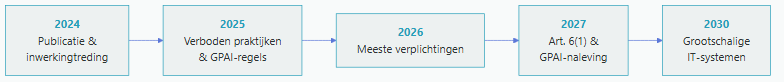
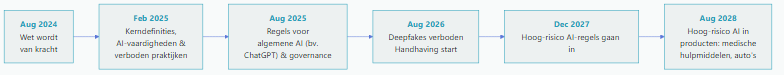
timeline fixes and minor styling improvements

diff --git a/README.md b/README.md
@@ -4,15 +4,21 @@ Teaching-focused plots and learning materials for AI and machine learning course
 
 ## About
 
-This repository generates plots, diagrams, and code snippets used in AI course
-materials. All visuals are generated programmatically and styled from the
-[Bitroot design system](CCPlots/config/bitroot.json).
+This repository generates plots, diagrams, and code snippets used in AI
+course materials.  All visuals are generated programmatically and styled
+from the [Bitroot design system](bitroot.json).
+
+> **AI agent instructions:** This repository contains `.agent-instructions/` —
+> guidance that lets AI tools (such as Kilo) generate new diagrams, plots,
+> and code snippets in the Bitroot style.  See the files in that directory
+> for the details per medium.
 
 ## Contents
 
 - [Python Plots](#python-plots) — matplotlib plots via CCPlots
 - [Mermaid Diagrams](#mermaid-diagrams) — flowcharts via mmdc (`mermaid/` → `mermaid-output/`)
 - [Code Snippets](#code-snippets) — syntax-highlighted code via carbon-now-cli (`code-snippets/` → `snippet-output/`)
+- [Agent Instructions](#agent-instructions) — AI guidance for generating new content
 - [Plot Showcase](#plot-showcase)
 
 ## Python Plots
@@ -89,6 +95,12 @@ derived from `bitroot.json` and rendered via the Mermaid CLI.
 |---|---|---|
 | `eu_ai_act_classification.md` | EN | `{stem}.svg`, `{stem}.png` |
 | `eu_ai_act_classification_NL.md` | NL | `{stem}.svg`, `{stem}.png` |
+| `eu_ai_act_timeline.md` | EN | `{stem}.svg`, `{stem}.png` |
+| `eu_ai_act_timeline_NL.md` | NL | `{stem}.svg`, `{stem}.png` |
+| `eu_ai_act_governance.md` | EN | `{stem}.svg`, `{stem}.png` |
+| `eu_ai_act_governance_NL.md` | NL | `{stem}.svg`, `{stem}.png` |
+| `eu_ai_act_nl_supervision.md` | EN | `{stem}.svg`, `{stem}.png` |
+| `eu_ai_act_nl_supervision_NL.md` | NL | `{stem}.svg`, `{stem}.png` |
 | `ml_algorithms_overview.md` | EN | `{stem}.svg`, `{stem}.png` |
 | `ml_algorithms.md` | EN | `{stem}.svg`, `{stem}.png` |
 | `scientific_method.md` | EN | `{stem}.svg`, `{stem}.png` |
@@ -111,11 +123,43 @@ Bitroot syntax-highlighting theme and rendered via carbon-now-cli.
 | `model_selection/` | LazyPredict comparison output | `model_selection/*.py.png` |
 | `preprocessing/` | Data cleaning, binning, normalization, etc. | `preprocessing/*.py.png` |
 
+## Slide Bases
+
+Text-free SVG and PNG base structures for presentations (PowerPoint, Google
+Slides).  These are backdrops — you add labels and annotations on top in
+your presentation tool.
+
+All bases are generated from `bases/` (a standalone Python module, independent
+from `CCPlots`).  Variants are configured in `bases_config.json`.
+
+1. Install Node dependencies: `npm install`
+2. Generate all bases: `python generate_bases.py`
+
+| Generator | Variants | Outputs (`bases-output/`) |
+|---|---|---|
+| `pyramid` | 3, 4, 5 layers | `pyramid{suffix}.svg`, `.png` |
+| `grid` | 2×2, 2×3, 3×1, 3×3 | `grid_{rows}x{cols}.svg`, `.png` |
+| `timeline` | 3, 5, 7 ticks | `timeline_{n}.svg`, `.png` |
+| `process` | 3, 4, 5 blocks | `process_{n}.svg`, `.png` |
+| `layers` | 3, 4, 5 bars | `layers_{n}.svg`, `.png` |
+| `venn` | 2, 3 sets | `venn_{n}.svg`, `.png` |
+
+**Adding a new base?** The easiest way is an AI tool.  Use the prompt
+template below, or read the full instructions in
+`.agent-instructions/slide-bases.instructions.md`:
+
+> Create a new base generator for [structure] in the `bases/` module.
+> It should return an SVG styled with the Bitroot palette via
+> `bases.palette.resolve_color()`.  Add variants to `bases_config.json`
+> and register the generator in `generate_bases.py`.
+
+The AI writes the generator, the config, and the registration — you just
+run `python generate_bases.py` and the SVG/PNG appear in `bases-output/`.
+
 ## Styling
 
-All visuals (plots and Mermaid diagrams) follow the **Bitroot** palette
-defined in [`CCPlots/config/bitroot.json`](CCPlots/config/bitroot.json),
-the single source of truth derived from the Bitroot design system.
+All visuals follow the **Bitroot** palette defined in
+[`bitroot.json`](bitroot.json) (project root — the single source of truth).
 
 | Token | Hex | Role |
 |---|---|---|
@@ -129,13 +173,30 @@ the single source of truth derived from the Bitroot design system.
 | `border` | `#D8E0E0` | Grid lines / borders |
 | `white` | `#F2F2F5` | Card backgrounds / light contrast |
 
-The palette is consumed by three theme modules — one per output type:
+The palette is consumed by four theme modules — one per output type:
 
 | Module | Config | Purpose |
 |---|---|---|
 | `CCPlots/config/palette.py` | `bitroot.json` | `BITROOT_PALETTE`, matplotlib styling, colour derivation |
 | `CCPlots/config/mermaid_theme.py` | `bitroot.json` | `mmdc`-compatible theme for Mermaid diagrams |
 | `CCPlots/config/carbon_theme.py` | `bitroot.json` | `carbon-now`-compatible theme for code snippets |
+
+## Agent Instructions
+
+This repository contains `.agent-instructions/` with guidance for AI tools
+(Kilo, ChatGPT, Claude, Copilot, etc.) to generate new visuals in the
+Bitroot style.
+
+| File | Purpose |
+|---|---|
+| `plotting-style.instructions.md` | Adding matplotlib plots via the CCPlots pipeline |
+| `mermaid-style.instructions.md` | Adding Mermaid diagrams (flowcharts, timelines) |
+| `code-snippet-style.instructions.md` | Adding code examples via carbon-now |
+| `slide-bases.instructions.md` | Generating text-free SVG bases for presentations |
+
+**Getting started:** Copy the prompt from the file you need, hand it to an
+AI tool, and let the AI generate the boilerplate.  Review the output and
+run the corresponding `generate_*.py` script.
 
 ## Plot Showcase
 

diff --git a/mermaid/eu_ai_act_timeline.md b/mermaid/eu_ai_act_timeline.md
@@ -1,15 +1,20 @@
 ---
 title: EU AI Act — Timeline
 description: >
-  Horizontal timeline of the EU AI Act's phased entry into force, from publication
-  in the Official Journal (July 2024) through the large-scale IT systems compliance
-  deadline (December 2030). Mid-2026 marks "most obligations apply" — high-risk
-  classification rules (Art. 6(1)) follow in August 2027.
+  Horizontal timeline of the EU AI Act's phased entry into force. Law takes effect
+  (Aug 2024), core definitions, AI literacy & banned practices (Feb 2025), rules for
+  general-purpose AI & governance (Aug 2025), most rules apply & enforcement starts
+  (Aug 2026), deepfake bans & transition deadline (Dec 2026), AI sandboxes (Aug 2027),
+  high-risk AI in hiring/credit/education (Dec 2027), high-risk AI in products (Aug 2028).
+  Source: EC AI Service Desk.
 ---
 ```mermaid
 flowchart LR
-    A["<b class='hl'>2024</b><br>Publication &<br>entry into force"] --> B["<b class='hl'>2025</b><br>Prohibitions &<br>GPAI rules"]
-    B --> C["<b class='hl'>2026</b><br>Most obligations"]
-    C --> D["<b class='hl'>2027</b><br>Art. 6(1) &<br>GPAI deadline"]
-    D --> E["<b class='hl'>2030</b><br>Large-scale<br>IT systems"]
+    A["<b class='hl'>Aug 2024</b><br>Law takes<br>effect"] --> B["<b class='hl'>Feb 2025</b><br>Core definitions,<br>AI literacy &<br>banned practices"]
+    B --> C["<b class='hl'>Aug 2025</b><br>Rules for general-<br>purpose AI (e.g.<br>ChatGPT) & governance"]
+    C --> D["<b class='hl'>Aug 2026</b><br>Most rules apply<br>— enforcement<br>starts"]
+    D --> E["<b class='hl'>Dec 2026</b><br>Deepfake bans &<br>transition deadline<br>for existing AI"]
+    E --> F["<b class='hl'>Aug 2027</b><br>AI sandboxes for<br>safe testing in<br>every EU country"]
+    F --> G["<b class='hl'>Dec 2027</b><br>High-risk AI rules:<br>hiring, credit,<br>education"]
+    G --> H["<b class='hl'>Aug 2028</b><br>High-risk AI in<br>products: medical<br>devices, cars"]
 ```

diff --git a/mermaid/eu_ai_act_timeline_NL.md b/mermaid/eu_ai_act_timeline_NL.md
@@ -1,15 +1,20 @@
 ---
 title: EU AI Act — Tijdlijn
 description: >
-  Horizontale tijdlijn van de gefaseerde inwerkingtreding van de EU AI Act, van
-  publicatie in het Publicatieblad (juli 2024) tot de deadline voor grootschalige
-  IT-systemen (december 2030). Midden 2026 markeert 'meeste verplichtingen van
-  kracht' — de hoog-risico-classificatieregels (Art. 6(1)) volgen in augustus 2027. Bron: https://artificialintelligenceact.eu/implementation-timeline/
+  Horizontale tijdlijn van de gefaseerde inwerkingtreding van de EU AI Act.
+  Wet van kracht (aug 2024), kerndefinities, AI-vaardigheden & verboden
+  praktijken (feb 2025), regels voor algemene AI zoals ChatGPT & governance
+  (aug 2025), meeste regels van kracht & handhaving start (aug 2026),
+  deepfake-verboden & overgangstermijn (dec 2026), AI-sandboxes (aug 2027),
+  hoog-risico AI bij sollicitaties, krediet & onderwijs (dec 2027),
+  hoog-risico AI in producten zoals medische hulpmiddelen & auto's (aug 2028).
+  Bron: EC AI Service Desk.
 ---
 ```mermaid
 flowchart LR
-    A["<b class='hl'>2024</b><br>Publicatie &<br>inwerkingtreding"] --> B["<b class='hl'>2025</b><br>Verboden praktijken<br>& GPAI-regels"]
-    B --> C["<b class='hl'>2026</b><br>Meeste verplichtingen"]
-    C --> D["<b class='hl'>2027</b><br>Art. 6(1) &<br>GPAI-naleving"]
-    D --> E["<b class='hl'>2030</b><br>Grootschalige<br>IT-systemen"]
+    A["<b class='hl'>Aug 2024</b><br>Wet wordt<br>van kracht"] --> B["<b class='hl'>Feb 2025</b><br>Kerndefinities,<br>AI-vaardigheden &<br>verboden praktijken"]
+    B --> C["<b class='hl'>Aug 2025</b><br>Regels voor<br>algemene AI (bv.<br>ChatGPT) & governance"]
+    C --> D["<b class='hl'>Aug 2026</b><br>Deepfakes verboden<br>Handhaving start"]
+    D --> E["<b class='hl'>Dec 2027</b><br>Hoog-risico AI-regels gaan in"]
+    E --> F["<b class='hl'>Aug 2028</b><br>Hoog-risico AI in<br>producten: medische<br>hulpmiddelen, auto's"]
 ```

diff --git a/mermaid/eu_ai_act_nl_supervision_NL.md b/mermaid/eu_ai_act_nl_supervision_NL.md
@@ -11,7 +11,7 @@ flowchart TB
 
     EAB["EU-AI-raad"]
 
-    AP[""<b class='hl'>AP</b><br/>Verboden AI<br/>Hoog Risico<br/>Transparantie"]
+    AP["<b class='hl'>AP</b><br/>Verboden AI<br/>Hoog Risico<br/>Transparantie"]
 
     RDI["<b class='hl'>RDI</b><br/>Coördinatie<br/>Producten"]
 
